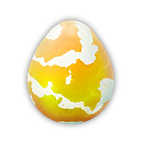
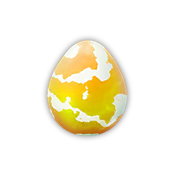
update

Changed region(s): [[0.1667, 0.1111, 0.8333, 0.8889]]

diff --git a/style.css b/style.css
@@ -86,18 +86,18 @@ input[type=search]::-webkit-search-cancel-button{-webkit-appearance:none;appeara
 /* ---- 地圖上的標記 ---- */
 /* 道館：染色過的道館圖示；有團體戰時多一圈脈動光暈和 boss 縮圖 */
 .gm{background:none;border:none;cursor:pointer}
-/* 圖示置中在 44x44 的可點擊方框裡，四周透明的部分一樣吃得到點擊 */
-.gm .gi{position:absolute;left:50%;top:50%;width:28px;height:29px;
-  margin:-16px 0 0 -14px;display:block;
+/* 圖示置中在 58x58 的可點擊方框裡，四周透明的部分一樣吃得到點擊 */
+.gm .gi{position:absolute;left:50%;top:50%;width:36px;height:38px;
+  margin:-21px 0 0 -18px;display:block;
   filter:drop-shadow(0 1px 2px rgba(0,0,0,.45))}
 .gm:hover .gi{filter:drop-shadow(0 0 4px #fff) drop-shadow(0 1px 2px rgba(0,0,0,.5))}
-.gm .ring{position:absolute;left:50%;top:50%;width:34px;height:34px;margin:-19px 0 0 -17px;
+.gm .ring{position:absolute;left:50%;top:50%;width:44px;height:44px;margin:-24px 0 0 -22px;
   border:2.5px solid #16a34a;border-radius:50%;animation:pulse 1.8s ease-out infinite;
   pointer-events:none}
-.gm .gb{position:absolute;right:0;top:0;width:26px;height:26px;object-fit:contain;
+.gm .gb{position:absolute;right:0;top:0;width:34px;height:34px;object-fit:contain;
   background:#fff;border:2px solid #16a34a;border-radius:50%;
   box-shadow:0 1px 3px rgba(0,0,0,.5)}
-.gm .mega{position:absolute;left:6px;bottom:9px;width:8px;height:8px;border-radius:50%;
+.gm .mega{position:absolute;left:8px;bottom:12px;width:10px;height:10px;border-radius:50%;
   background:var(--mega);border:1.5px solid #fff;box-shadow:0 1px 2px rgba(0,0,0,.5)}
 @keyframes pulse{
   0%{transform:scale(.55);opacity:.95}
@@ -150,13 +150,14 @@ body.lightmap .leaflet-control-attribution a{color:#0369a1}
 #toast.show{opacity:1}
 
 
-/* 團體戰的蛋。圖檔本身四周留了透明邊給暗影光暈，所以框要比視覺尺寸再大一點。 */
-.gm .gegg{position:absolute;right:-2px;top:-2px;width:30px;height:30px;
+/* 團體戰的蛋。圖檔裡蛋只佔約 55%，其餘是給紫焰的透明留白，
+   所以 48px 的框裡蛋看起來大約 26px。 */
+.gm .gegg{position:absolute;right:-6px;top:-6px;width:48px;height:48px;
   object-fit:contain;pointer-events:none;
   filter:drop-shadow(0 1px 2px rgba(0,0,0,.55))}
 /* rating 是沒看過的值時的退路：舊的彩色圓點 */
-.gm .gegg-dot{position:absolute;right:0;top:0;width:24px;height:24px;border-radius:50%;
-  border:2px solid #fff;box-shadow:0 1px 3px rgba(0,0,0,.5);font-size:12px;font-weight:700;
+.gm .gegg-dot{position:absolute;right:0;top:0;width:31px;height:31px;border-radius:50%;
+  border:2px solid #fff;box-shadow:0 1px 3px rgba(0,0,0,.5);font-size:15px;font-weight:700;
   color:#fff;display:flex;align-items:center;justify-content:center;font-style:normal;
   line-height:1}
 .pop .raid .eggbig{width:42px;height:42px;flex:none;border-radius:8px;color:#fff;

diff --git a/app.js b/app.js
@@ -557,11 +557,11 @@ function gymDivIcon(it) {
     }
   }
   if (it.megaRaid) html += `<i class="mega" title="極致超級團體戰"></i>`;
-  // iconSize 開到 44x44（圖示本身還是 28x29，四周多出來的是透明的可點擊範圍）。
-  // 手機的建議觸控目標是 44px，滑鼠也比較好瞄。
+  // iconSize 開到 58x58（圖示本身 36x38，四周多出來的是透明的可點擊範圍）。
+  // iconAnchor 的 y 對準道館圖示底部的尖端（8 + 38 = 46）。
   return L.divIcon({
     className: 'gm' + (it.raid ? ' has-raid' : ''),
-    html, iconSize: [44, 44], iconAnchor: [22, 35], popupAnchor: [0, -32]
+    html, iconSize: [58, 58], iconAnchor: [29, 46], popupAnchor: [0, -42]
   });
 }
 
